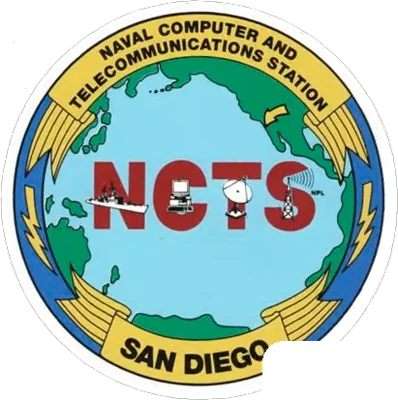
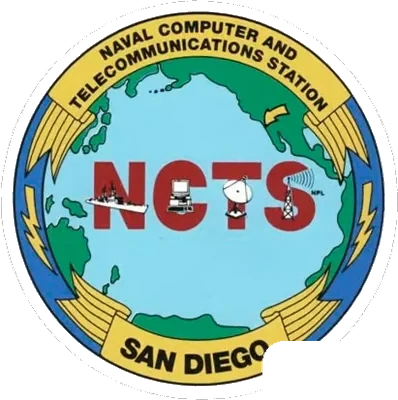
Consistent look: clean Frank Cable, EODMU-5 and JCSE Airborne crests; SW/EXW/JCSE from Sergio's chest stack; antiqued CPO anchor and flat-silver ET mark; NCTS halo removed; shared card chrome (border, radius, Source Serif titles, crest box and shadow)

diff --git a/src/styles.css b/src/styles.css
@@ -13,6 +13,8 @@
   --color-brass: #b8923a;
   --color-brass-bright: #e4c77a;
   --color-felt: #0c0c0d;
+  --card-radius: 4px;
+  --crest-shadow: drop-shadow(0 1px 1.5px rgba(0, 0, 0, 0.22));
   --color-line: rgba(184, 146, 58, 0.45);
   --color-quiet: #6d6458;
 }
@@ -195,11 +197,12 @@ a { color: var(--color-navy); }
 .rack-note { max-width: 40rem; margin: 0 auto 1rem; text-align: center; color: #d9d0c2; font-size: 0.95rem; }
 .patch-row { list-style: none; display: flex; flex-wrap: wrap; gap: 0.45rem; padding: 0; margin: 0; justify-content: center; }
 .patch {
-  width: 6.4rem;
+  width: calc(6.4rem + 2px);
   min-height: 5.4rem;
   background: #f4efe4;
   color: var(--color-navy);
-  border: 0;
+  border: 1px solid rgba(184, 146, 58, 0.35);
+  border-radius: var(--card-radius);
   display: flex;
   flex-direction: column;
   align-items: center;
@@ -209,10 +212,11 @@ a { color: var(--color-navy); }
 }
 .patch-mark { font-family: var(--font-card); font-weight: 600; font-size: 0.95rem; line-height: 1.1; text-align: center; }
 .designator { font-size: 0.62rem; letter-spacing: 0.1em; text-transform: uppercase; color: var(--color-brass); border: 1px solid currentColor; border-radius: 2px; padding: 0.05rem 0.3rem; line-height: 1.3; white-space: nowrap; }
-.patch-crest { width: 4.4rem; height: 4.4rem; object-fit: contain; }
+/* Every crest sits in the same square box, centred, on a transparent background, with one shared soft shadow. */
+.patch-crest { width: 4.7rem; height: 4.7rem; padding: 0.15rem; box-sizing: border-box; object-fit: contain; object-position: center; filter: var(--crest-shadow); }
 .patch.has-crest .patch-mark { font-size: 0.8rem; }
 .patch span:last-child { font-family: var(--font-sans); }
-.patch-row:has(.has-crest) .patch { min-height: 7.6rem; }
+.patch-row:has(.has-crest) .patch { min-height: 7.9rem; }
 .patch span:last-child { font-size: 0.75rem; color: var(--color-quiet); }
 
 .ledger, .split { display: grid; gap: 1.5rem; margin-top: 1.75rem; }
@@ -265,7 +269,9 @@ a { color: var(--color-navy); }
   width: 100%;
   min-height: 44px;
   background: white;
-  border: 1px solid var(--color-ivory-dim);
+  border: 1px solid rgba(184, 146, 58, 0.35);
+  border-radius: var(--card-radius);
+  overflow: hidden;
   padding: 0.6rem 0.5rem 0.8rem;
   display: flex;
   flex-direction: column;
@@ -277,9 +283,12 @@ a { color: var(--color-navy); }
 .uniform-group h3 { margin: 0 0 0.2rem; }
 .uniform-photo { width: 100%; height: 16rem; object-fit: contain; object-position: center bottom; background: #fff; }
 .equipment-grid { grid-template-columns: repeat(auto-fill, minmax(14rem, 1fr)); }
-.equipment-photo { width: 100%; aspect-ratio: 3 / 2; height: auto; object-fit: contain; background: #fff; }
+.equipment-photo { width: 100%; aspect-ratio: 3 / 2; height: auto; object-fit: contain; background: #fff; border-radius: 2px; }
 .equipment-photo.is-photo { object-fit: cover; }
-.equipment-card span { font-size: 0.85rem; color: var(--color-quiet); }
+.equipment-card span { font-family: var(--font-sans); font-size: 0.8rem; line-height: 1.3; color: var(--color-quiet); }
+/* One title style for unit, uniform and gear cards: Source Serif 4 semibold; captions and dates stay in the sans. */
+.uniform-card strong { font-family: var(--font-card); font-weight: 600; font-size: 0.95rem; line-height: 1.2; color: var(--color-navy); }
+.uniform-card:hover, .uniform-card:focus-visible, .patch:hover, .patch:focus-visible { border-color: var(--color-brass); }
 .map-frame { position: relative; z-index: 0; isolation: isolate; height: 24rem; width: 100%; background: var(--color-ivory-dim); border: 1px solid var(--color-line); }
 .map-frame.tall { height: min(40rem, 70vh); }
 .map-dot { display: block; width: 14px; height: 14px; border-radius: 50%; background: var(--color-brass); border: 2px solid var(--color-navy); }
@@ -334,7 +343,7 @@ a { color: var(--color-navy); }
 .detail-hero img { display: block; max-width: 100%; object-fit: contain; }
 .detail-hero .ribbon > img { object-fit: fill; }
 .hero-tall img { height: min(26rem, 55vh); width: auto; }
-.hero-square img { width: min(15rem, 70%); height: auto; }
+.hero-square img { width: min(15rem, 70%); height: auto; filter: var(--crest-shadow); }
 .hero-wide img { width: min(22rem, 90%); height: auto; }
 .hero-landscape img { width: min(34rem, 100%); height: auto; }
 .hero-extra { flex-direction: column; gap: 0.6rem; }
